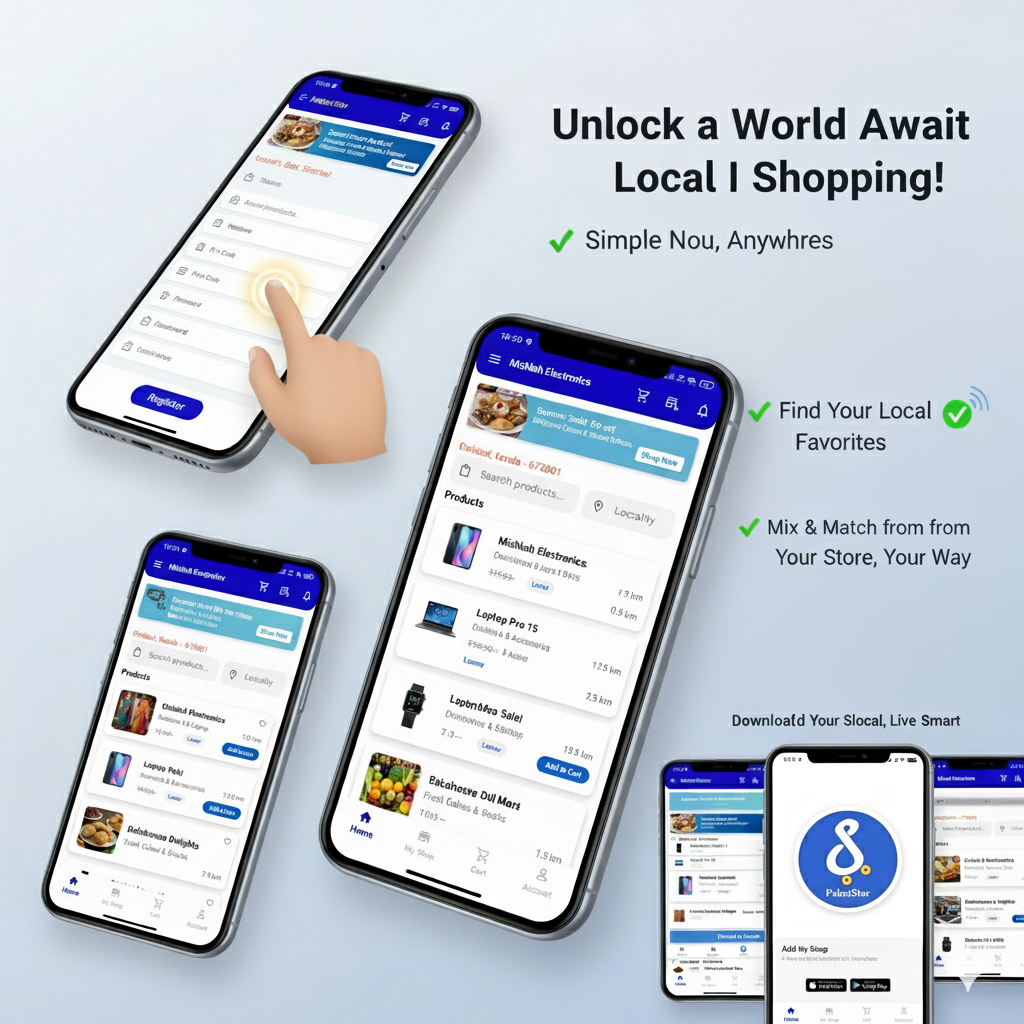
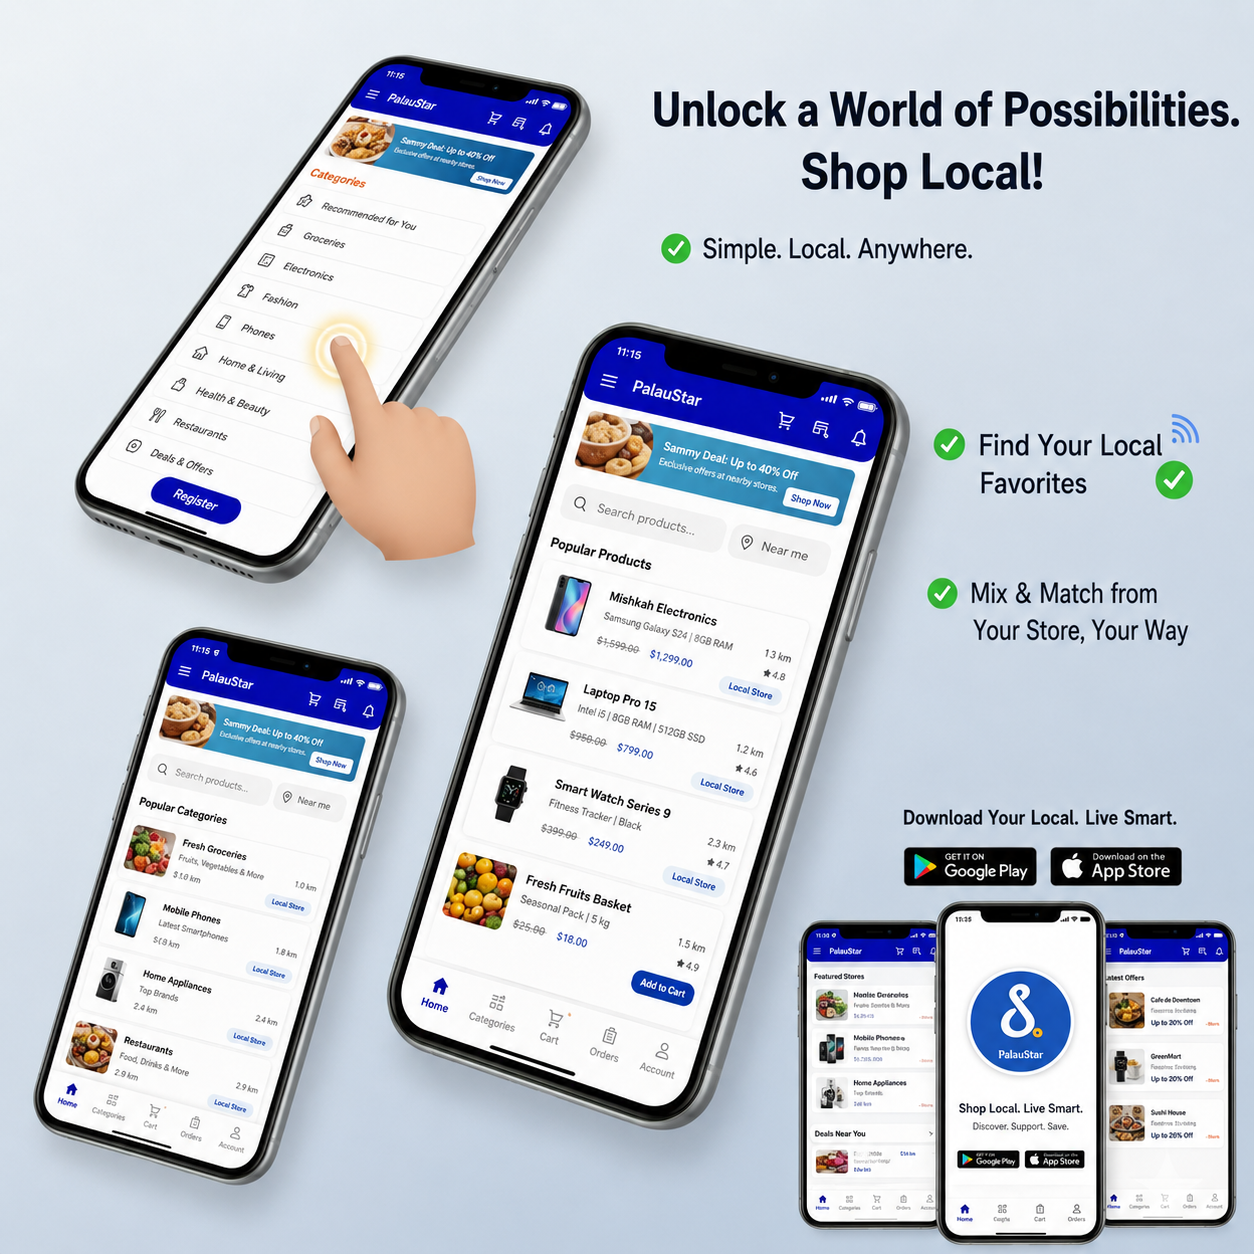
imageUpdate

diff --git a/src/components/HeroSection.jsx b/src/components/HeroSection.jsx
@@ -186,7 +186,7 @@ const HeroSection = ({ navigateTo }) => {
             <div className="bg-white rounded-2xl shadow-2xl p-4 transform rotate-3">
               <div className="bg-gray-200 rounded-xl flex items-center justify-center">
                 <img
-                  src="/aaa.png"
+                  src="/aa2.png"
                   alt="Pocket Store App"
                   className="rounded-xl object-cover"
                 />